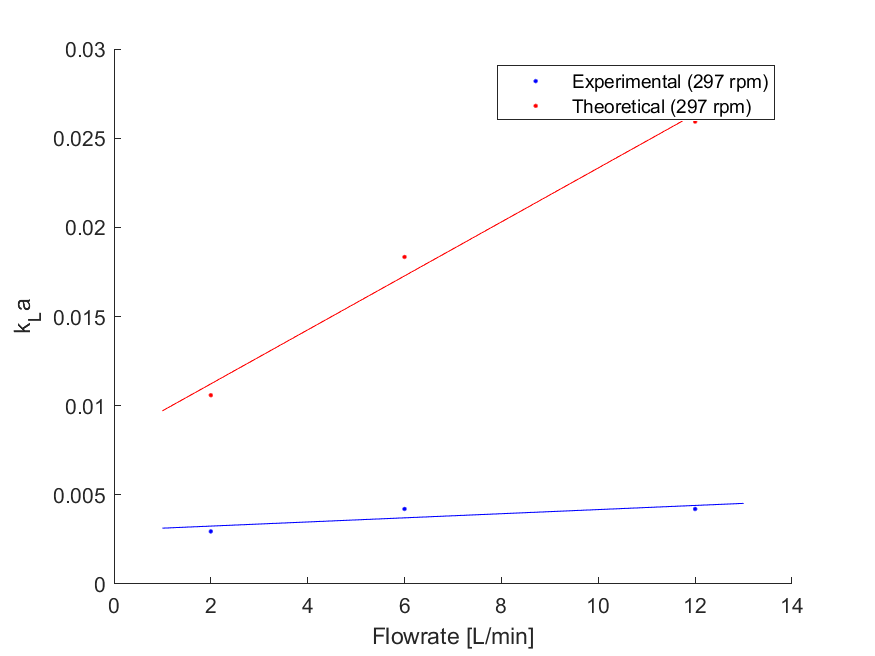
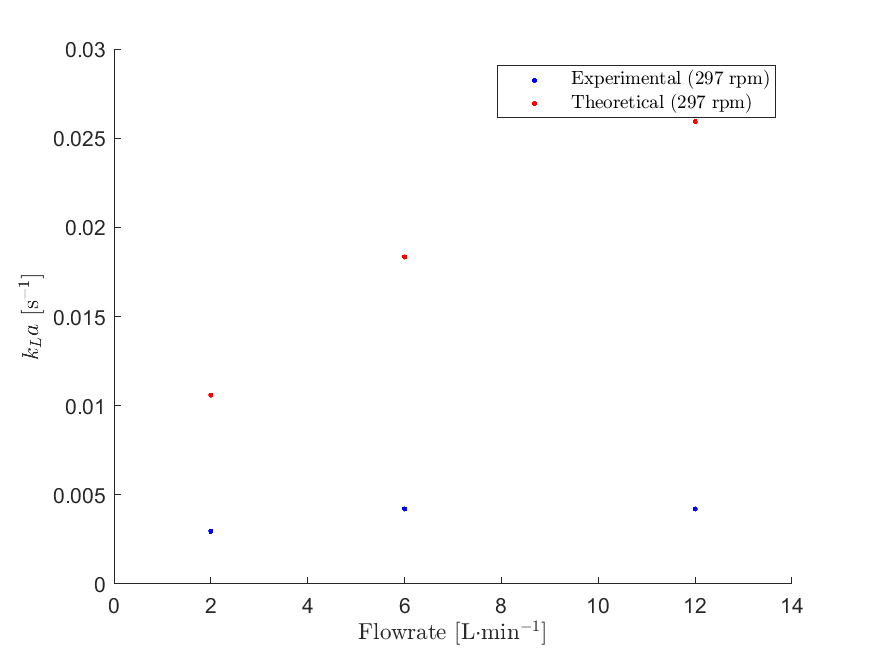
updated graphs

diff --git a/Lab 6/lab_6_graphs_truncated.m b/Lab 6/lab_6_graphs_truncated.m
@@ -33,7 +33,8 @@ C_A = henry * pO2; % [M]
 for i=1:7
     C_T = m.(concentrations{i}).*0.000031251171918947004; % convert mg -> mol
     t_trunc.(trials{i}) = m.(times{i}) - m.(times{i})(1);
-    t_trunc.(trials{i}) = t_trunc.(trials{i})(~isnan(t_trunc.(trials{i}))); %remove NaN values
+    t_trunc.(trials{i}) = t_trunc.(trials{i})(~isnan(t_trunc.(trials{i})));...
+        %remove NaN values
     LHS.(trials{i}) = log((C_A-C_T)./(C_A-C_T(1)));
     LHS.(trials{i}) = LHS.(trials{i})(~isnan(LHS.(trials{i})));
     fitz.(trials{i}) = polyfitZero(t_trunc.(trials{i}), -LHS.(trials{i}), 1);
@@ -46,9 +47,10 @@ hold on
 plot(t_trunc.t1, -LHS.t1, '.r')
 plot(t_trunc.t2, -LHS.t2, '.g')
 plot(t_trunc.t3, -LHS.t3, '.b')
-xlabel('Time [s]')
-ylabel('LHS Equation 6')
-legend('2 L/min', '6 L/min', '12 L/min')
+xlabel('Time [s]', 'Interpreter', 'latex')
+ylabel('$$\frac{C^*_A-C_A(t)}{C^*_A-C_{A,0}}$$', 'Interpreter', 'latex')
+legend({'2 L$\cdot$min$^{-1}$', '6 L$\cdot$min$^{-1}$', '12 L$\cdot$min$^{-1}$'},...
+    'Interpreter', 'latex')
 
 figure(2)
 hold on
@@ -56,13 +58,14 @@ plot(t_trunc.t7, -LHS.t7, '.r')
 plot(t_trunc.t4, -LHS.t4, '.g')
 plot(t_trunc.t5, -LHS.t5, '.b')
 plot(t_trunc.t6, -LHS.t6, '.m')
-xlabel('Time [s]')
-ylabel('LHS Equation 6')
-legend('255 rpm', '297 rpm', '312 rpm', '355 rpm')
+xlabel('Time [s]', 'Interpreter', 'latex')
+ylabel('$$\frac{C^*_A-C_A(t)}{C^*_A-C_{A,0}}$$', 'Interpreter', 'latex')
+legend({'255 rpm', '297 rpm', '312 rpm', '355 rpm'}, 'Interpreter', 'latex')
 
 % theoretical
 for i=1:7
-    VRC.(trials{i}) = 2.6e-2 .* (power(i)./(A_i*h)).^0.4 .* (flowrates(i) / (A_i * 1000 * 60)).^0.5;
+    VRC.(trials{i}) = 2.6e-2 .* (power(i)./(A_i*h)).^0.4 .* (flowrates(i) /...
+        (A_i * 1000 * 60)).^0.5;
 end
 
 % predicted vs. experimental k_L
@@ -71,18 +74,14 @@ figure(3)
 hold on
 % experimental
 LHS_1e = [fitz.(trials{1})(1), fitz.(trials{2})(1), fitz.(trials{3})(1)];
-fitn.constant_rpme = polyfitn(flowrates(1:3), LHS_1e, 1);
 plot(flowrates(1:3), LHS_1e, '.b')
 % theoretical
 LHS_1t = [VRC.t1(1), VRC.t2(1), VRC.t3(1)];
-fitn.constant_rpmt = polyfitn(flowrates(1:3), LHS_1t, 1);
 plot(flowrates(1:3), LHS_1t, '.r')
 xlim([0, 14])
-xlabel('Flowrate [L/min]')
-ylabel('k_La')
-plot(1:1:13, polyval(fitn.constant_rpme.Coefficients, 1:1:13), '-b')
-plot(1:1:13, polyval(fitn.constant_rpmt.Coefficients, 1:1:13), '-r')
-legend('Experimental (297 rpm)', 'Theoretical (297 rpm)')
+xlabel('Flowrate [L$\cdot$min$^{-1}$]', 'Interpreter', 'latex')
+ylabel('$k_La$ [s$^{-1}$]', 'Interpreter', 'latex')
+legend({'Experimental (297 rpm)', 'Theoretical (297 rpm)'}, 'Interpreter', 'latex')
 
 % constant flowrate varying RPM
 figure(4)
@@ -90,15 +89,12 @@ hold on
 % experimental
 LHS_2e = [fitz.t7(1), fitz.t4(1), fitz.t5(1), fitz.t6(1)];
 flow = [rpms(7), rpms(4), rpms(5), rpms(6)];
-fitn.constant_flowe = polyfitn(flow, LHS_2e, 1);
 plot(flow, LHS_2e, '.b')
 % theoretical
 LHS_2t = [VRC.t7(1), VRC.t4(1), VRC.t5(1), VRC.t6(1)];
-fitn.constant_flowt = polyfitn(flow, LHS_2t, 1);
 plot(flow, LHS_2t, '.r')
 xlim([245, 345])
-xlabel('Rotation Speed [rpm]')
-ylabel('k_La')
-plot(250:340, polyval(fitn.constant_flowe.Coefficients, 250:340), '-b')
-plot(250:340, polyval(fitn.constant_flowt.Coefficients, 250:340), '-r')
-legend('Experimental (6 L/min)', 'Theoretical (6 L/min)')
+xlabel('Rotation Speed [rpm]', 'Interpreter', 'latex')
+ylabel('$k_La$ [s$^{-1}$]', 'Interpreter', 'latex')
+legend({'Experimental (6 L$\cdot$min$^{-1}$)', 'Theoretical (6 L$\cdot$min$^{-1}$)'},...
+    'Interpreter', 'latex')
